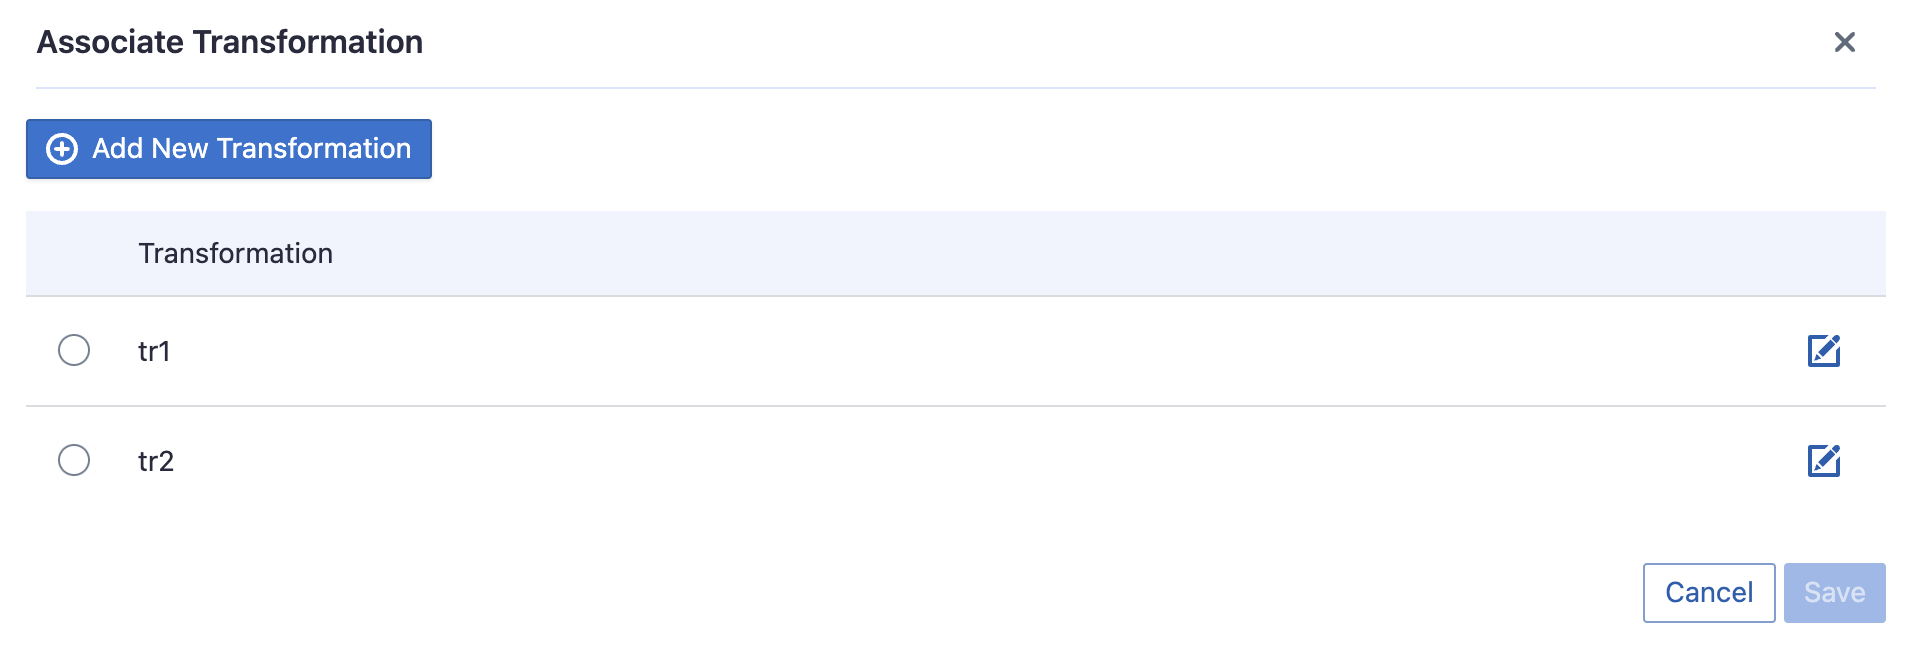
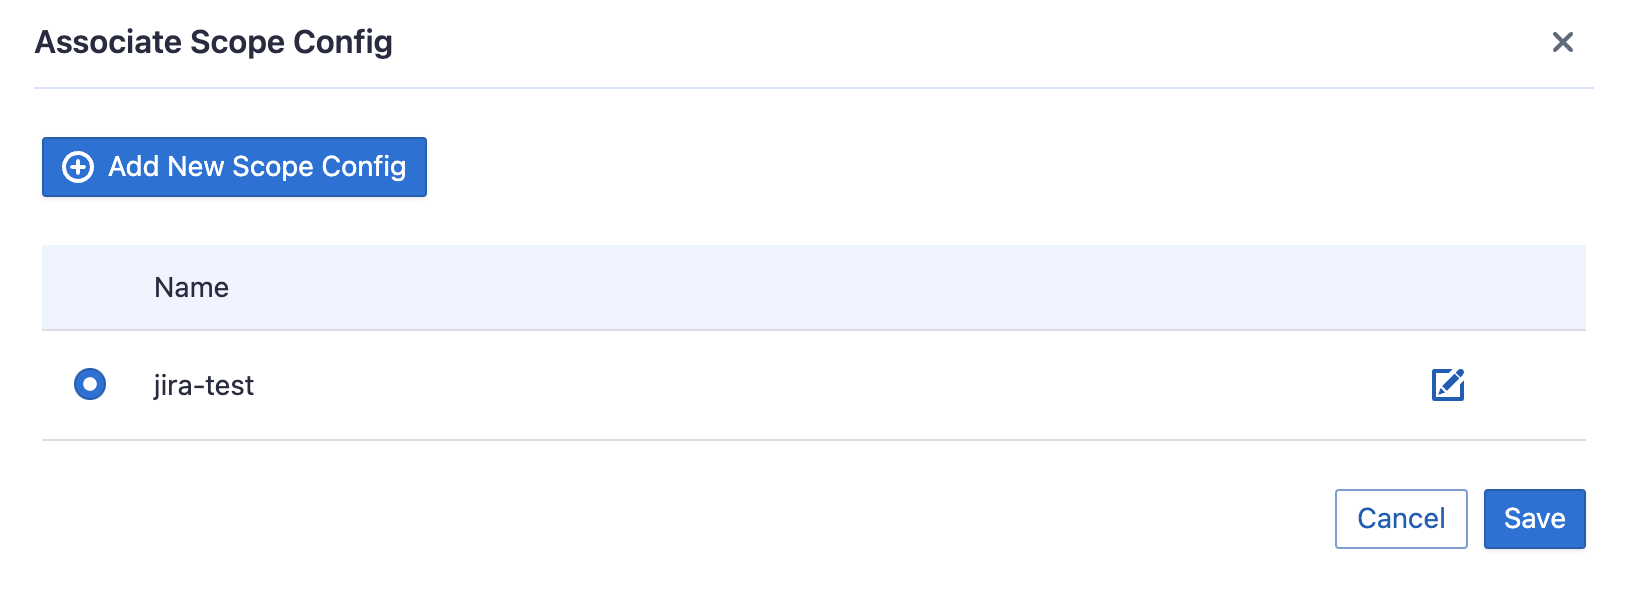
docs: update Jira scope config

diff --git a/docs/Configuration/Jira.md b/docs/Configuration/Jira.md
@@ -96,8 +96,15 @@ Usually, you don't have to modify this part. However, if you don't want to colle
 - Issue Tracking: Jira issues, issue comments, issue labels, etc.
 - Cross Domain: Jira accounts, etc.
 
-## Step 3 - Adding Transformation Rules (Optional)
-Adding transforamtion to the Jira data you wish to collect can help standardize the data to view more metrics, such as [Requirement Lead Time](https://devlake.apache.org/docs/Metrics/RequirementLeadTime), [Bug Age](https://devlake.apache.org/docs/Metrics/BugAge) and DORA - [Median Time to Restore Service](https://devlake.apache.org/docs/Metrics/MTTR).
+## Step 3 - Adding Scope Config (Optional)
+Scope config contains two parts: 
+- The entities of which domain you wish to collect
+- The transformations on the Jira data you are going to collect
+   - Issue Type: Standardize the issue types to DevLake's pre-defined three issue types: REQUIREMENT, BUG, and INCIDENT.
+   - Story Points: Map the custom field that represents story_point in your Jira to DevLake's issue story point.
+   - Cross-domain: Get the commit(s) associated with Jira issues from Jira issues' remote links or development panels.
+
+Although this configuration is an optional, some of above transformations are required to measure metrics such as [Requirement Lead Time](https://devlake.apache.org/docs/Metrics/RequirementLeadTime), [Bug Age](https://devlake.apache.org/docs/Metrics/BugAge) or [DORA - Median Time to Restore Service](https://devlake.apache.org/docs/Metrics/MTTR) in the built-in Grafana dashboards.
 
 ![jira-add-transformation-1](images/jira-set-transformation1.png)
 ![jira-add-transformation-2](images/jira-set-transformation2.png)
